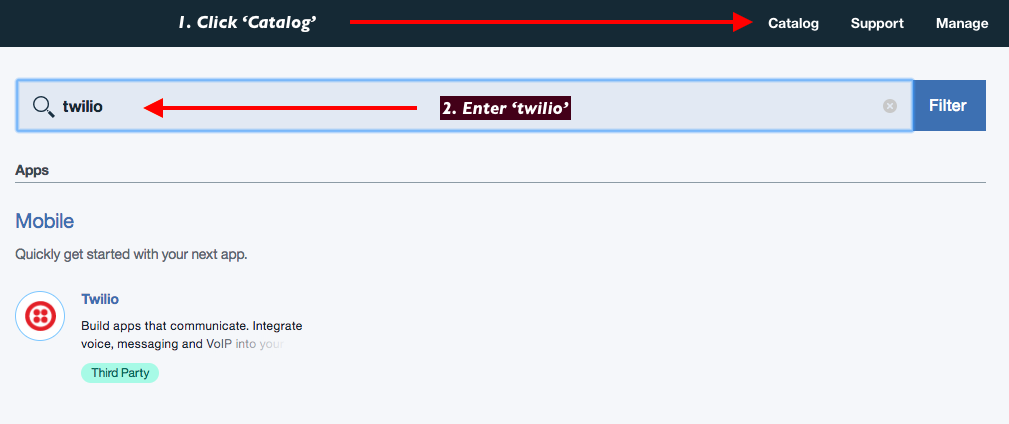
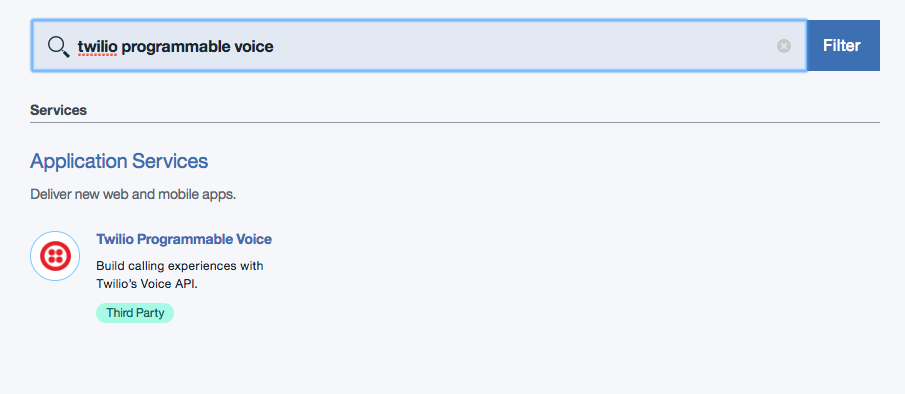
Updating for new Bluemix integration/envs

diff --git a/services/TwilioProgrammableVoice/index.md b/services/TwilioProgrammableVoice/index.md
@@ -20,7 +20,7 @@ lastupdated: "2017-07-26"
 Twilio’s [Programmable Voice](https://www.twilio.com/voice) makes it incredibly
 easy to add Voice capabilities to your mobile or web application.  Add easy
 ingoing and outgoing calling with monitoring and logging capabilities in no time
-flat with the power of Twilio’s cloud Voice capabilities.  It’s only a few
+flat with the power of Twilio’s Cloud Voice capabilities.  It’s only a few
 steps from our communications APIs to a contact center, unique support
 capabilities, browser dialing, or any other application you can dream.
 {: shortdesc}
@@ -47,10 +47,10 @@ number, and you will need access to a WebRTC capable web browser.
      ```
      {: codeblock}
 
-1. Log into Bluemix Console and create a Twilio App
+1. Log into Bluemix Console and create a Twilio Programmable Voice Service
 
    - Click 'Catalog' at the top of the screen
-   - Enter 'twilio'
+   - Enter 'twilio programmable voice'
 
    ![Twilio app from Bluemix catalog](images/03-create-twilio-app.png)
 
@@ -59,39 +59,33 @@ number, and you will need access to a WebRTC capable web browser.
 
    ![Configure your Twilio Credentials](images/02-twilio-credentials.png)
 
-   Once complete (and correct), 'Create' the App.
+   Copy them to the integration.
+1. Navigate to the [TwiML App section](https://www.twilio.com/console/voice/dev-tools/twiml-apps)
+   of the Twilio Console and *Create* a new TwiML App.  Name it ‘Bluemix_App’
+   or similar.  Copy and paste the the App SID into the service.
+
+1. In the Phone Numbers section of the Twilio Console, either purchase or
+   choose an existing voice capable Phone number.  Copy and paste it into the service.
+
+   Once complete (and correct), 'Create' the Service.
 
 1. In the Bluemix Console, select 'Catalog' -> 'Apps' -> 'Cloud Foundry Apps'
    then select the `SDK for Node.js`. Name it something memorable.
 
-1. In the Bluemix Dashboard, click on your Twilio Service under 'Services',
-   then click the 'Create connection +' button. Connect it to your new Node.js
-   App.
+1. With the URL of the newly created App, copy and paste the URL with `/voice` 
+   appended into the 'Voice Request URL' back in the TwiML app you made above.
 
-1. Navigate to the [TwiML App section](https://www.twilio.com/console/voice/dev-tools/twiml-apps)
-   of the Twilio Console and *Create* a new TwiML App.  Name it ‘Bluemix_App’
-   or similar.  In the *voice* REQUEST URL section, use the above IBM Bluemix
-   URL (the https version) with the /voice path appended.  Also, copy the App SID:
+   If you closed it, you can get back to the [TwiML App here](https://www.twilio.com/console/voice/dev-tools/twiml-apps)
 
    ![Configure TwiML App](images/06-create-twiml-app-in-twilio-console.png)
 
-1. In the Phone Numbers section of the Twilio Console, either purchase or
-   choose an existing voice capable Phone number.  Copy it for usage in the
-   Bluemix App.
+1. In the Bluemix Dashboard, click on your Twilio Programmable Voice Service under 'Services',
+   then click the 'Create connection +' button. Connect it to your new Node.js
+   App.
 
-1. In the Bluemix Dashboard, click on your Twilio Service under ‘Services’,
+
+1. In the Bluemix Dashboard, click on your Twilio Programmable Voice Service under ‘Services’,
    then click the ‘Create connection +’ button.  Connect it to your new Node.js App.
-
-1. Navigate back to your Bluemix app and click ‘Runtime’ on the left sidebar.
-   In environment variables, set two environment variables. Copy and paste the
-   APP Sid and a Voice-capable phone number:
-
-    ```bash
-    TWILIO_TWIML_APP_SID
-    TWILIO_NUMBER
-    ```
-
-    ![Set Environment Variables](images/09-env-variables.png)
 
 1. Locally, clone our sample application:
 
@@ -107,7 +101,7 @@ number, and you will need access to a WebRTC capable web browser.
 
 1. In a browser which supports WebRTC, visit `<your Bluemix URL>`.  Enter your
    cell phone number (or any voice capable phone or phone number) in the
-   ensuing dialog box and dial!
+   ensuing dialog box and dial...
 
 1. Enjoy a conversation with yourself!
 
